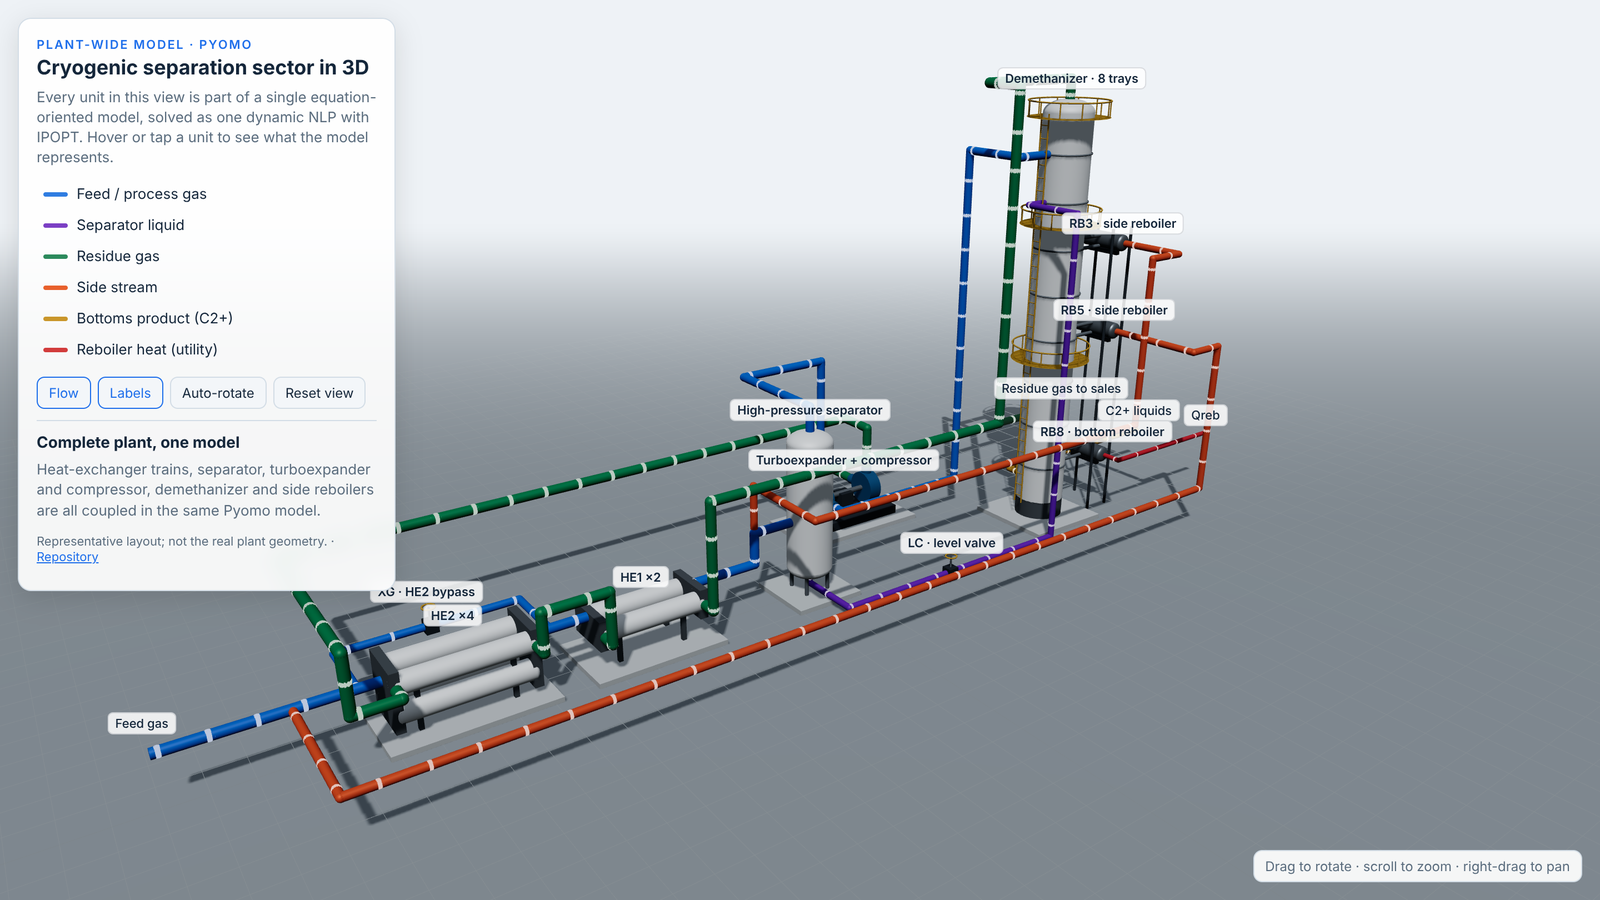
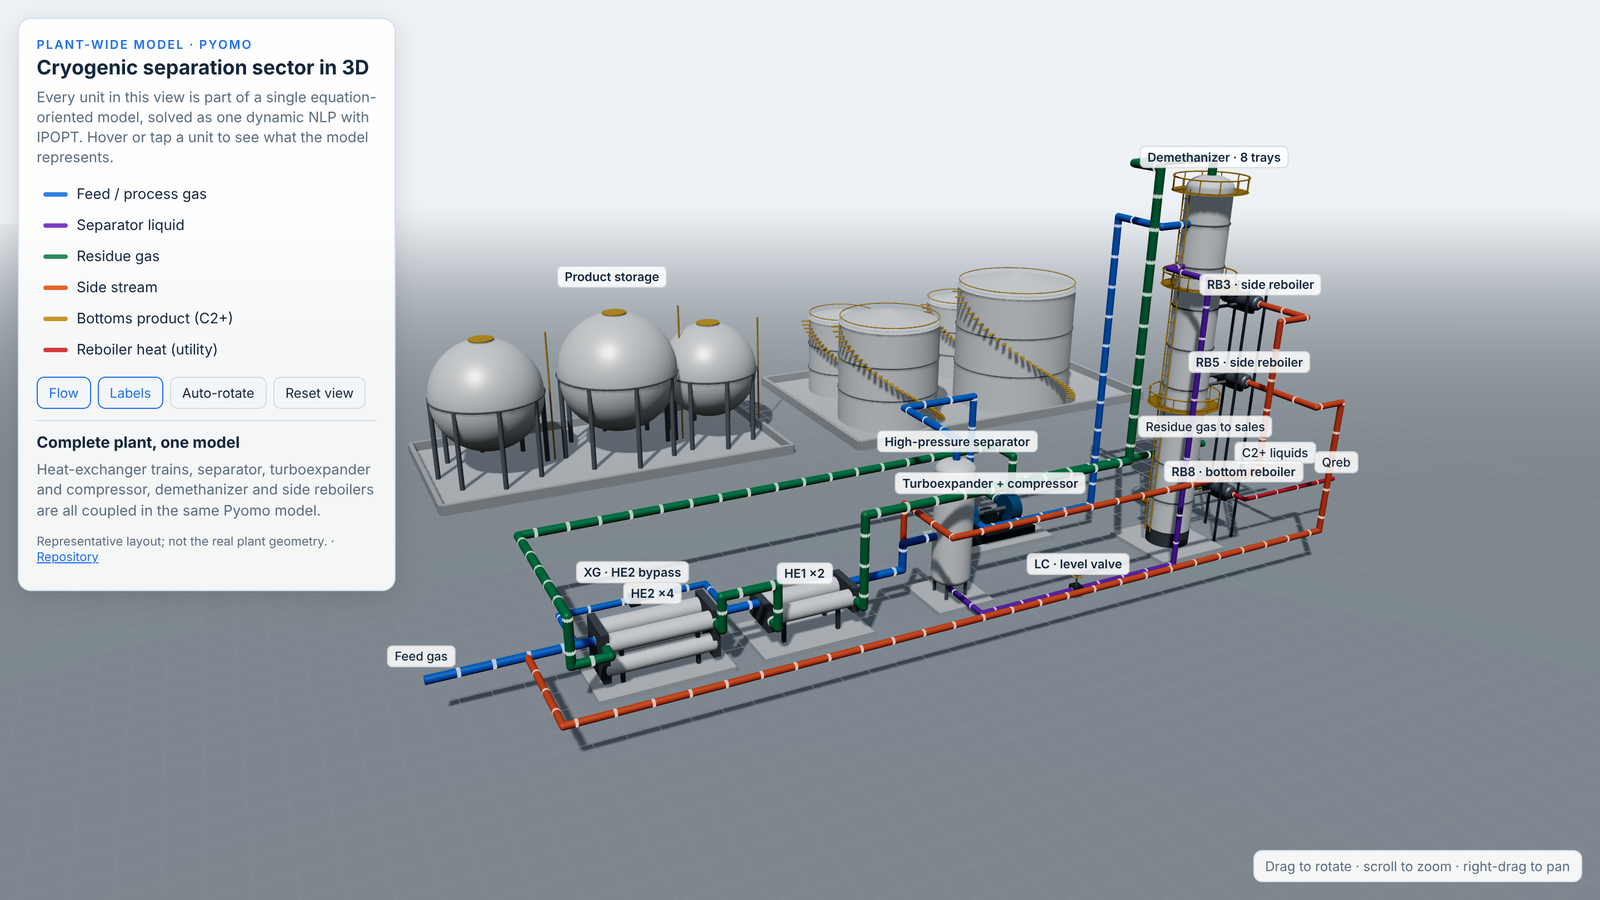
3D view: add product storage spheres and tanks in the background

Changed region(s): [[0.0625, 0.0622, 0.875, 0.9333]]

diff --git a/docs/index.html b/docs/index.html
@@ -104,7 +104,7 @@ applyBg();
 matchMedia('(prefers-color-scheme: dark)').addEventListener('change', applyBg);
 
 const camera = new THREE.PerspectiveCamera(42, innerWidth / innerHeight, 0.1, 500);
-const HOME = { pos: new THREE.Vector3(-38, 34, 52), target: new THREE.Vector3(0, 9, -1) };
+const HOME = { pos: new THREE.Vector3(-42, 40, 62), target: new THREE.Vector3(-6, 8, -12) };
 const homePos = () => { const a = innerWidth / innerHeight, k = a < 1 ? 0.95 / a : a < 1.4 ? 1.25 : 1; return HOME.target.clone().add(HOME.pos.clone().sub(HOME.target).multiplyScalar(k)); };
 camera.position.copy(homePos());
 const controls = new OrbitControls(camera, renderer.domElement);
@@ -119,7 +119,7 @@ const sun = new THREE.DirectionalLight(0xffffff, 1.6);
 sun.position.set(-30, 60, 35);
 sun.castShadow = true;
 sun.shadow.mapSize.set(2048, 2048);
-Object.assign(sun.shadow.camera, { left: -60, right: 60, top: 60, bottom: -60, near: 1, far: 160 });
+Object.assign(sun.shadow.camera, { left: -75, right: 75, top: 75, bottom: -75, near: 1, far: 200 });
 scene.add(sun);
 
 // ---------- materials ----------
@@ -256,6 +256,51 @@ reboiler('RB8', trayY(8), 'RB8 · bottom reboiler', 'External heat duty Qreb, a 
   const g = new THREE.Group();
   for (const dz of [-1.4, 1.4]) for (const dx of [-.9, .9]) { const c = cyl(.1, 20, M.dark, 8); c.position.set(24.5 + dx, 10, dz); g.add(c); }
   scene.add(g); g.traverse(o => o.isMesh && shade(o));
+}
+
+// ---------- product storage (background, not part of the model) ----------
+{
+  const white = new THREE.MeshStandardMaterial({ color: 0xf2f4f5, roughness: .4, metalness: .25 });
+  const leg = new THREE.MeshStandardMaterial({ color: 0x8a949c, roughness: .5, metalness: .6 });
+  const dike = new THREE.MeshStandardMaterial({ color: 0xa7abad, roughness: 1 });
+  const g = new THREE.Group();
+  function bund(x0, x1, z0, z1) {           // containment wall around a tank area
+    const h = .9, t = .4, w = x1 - x0, d = z1 - z0;
+    const floor = box(w, .08, d, M.pad); floor.position.set((x0 + x1) / 2, .04, (z0 + z1) / 2); g.add(floor);
+    for (const [bx, bz, bw, bd] of [[(x0 + x1) / 2, z0, w, t], [(x0 + x1) / 2, z1, w, t], [x0, (z0 + z1) / 2, t, d], [x1, (z0 + z1) / 2, t, d]]) {
+      const b = box(bw, h, bd, dike); b.position.set(bx, h / 2, bz); g.add(b);
+    }
+  }
+  function sphere(x, z, r) {                // pressurized sphere on legs (light products)
+    const y = r + 2.2;
+    const s = shade(new THREE.Mesh(new THREE.SphereGeometry(r, 40, 24), white)); s.position.set(x, y, z); g.add(s);
+    const belt = shade(new THREE.Mesh(new THREE.TorusGeometry(r * 1.005, .08, 6, 48), leg)); belt.rotation.x = Math.PI / 2; belt.position.set(x, y, z); g.add(belt);
+    const n = 8;
+    for (let i = 0; i < n; i++) {
+      const a = i * Math.PI * 2 / n, c = cyl(.22, y, leg, 10);
+      c.position.set(x + Math.cos(a) * r * .98, y / 2, z + Math.sin(a) * r * .98); g.add(c);
+    }
+    const stair = cyl(.08, y + r, M.rail, 6); stair.position.set(x + r + .6, (y + r) / 2, z); g.add(stair);
+    const top = shade(new THREE.Mesh(new THREE.CylinderGeometry(1.1, 1.1, .1, 20), M.rail)); top.position.set(x, y + r + .05, z); g.add(top);
+  }
+  function tank(x, z, r, h) {               // atmospheric cylindrical tank with cone roof and spiral stair
+    const c = cyl(r, h, white, 48); c.position.set(x, h / 2, z); g.add(c);
+    const roof = shade(new THREE.Mesh(new THREE.ConeGeometry(r * 1.02, r * .25, 48), white)); roof.position.set(x, h + r * .125, z); g.add(roof);
+    for (const y of [h * .33, h * .66]) { const band = shade(new THREE.Mesh(new THREE.TorusGeometry(r + .02, .06, 6, 48), leg)); band.rotation.x = Math.PI / 2; band.position.set(x, y, z); g.add(band); }
+    const steps = 28;
+    for (let i = 0; i < steps; i++) {
+      const a = Math.PI * .2 + i * (Math.PI * .9 / steps), y = (i + .5) * h / steps;
+      const st = box(.9, .08, .35, M.rail); st.position.set(x + Math.cos(a) * (r + .45), y, z + Math.sin(a) * (r + .45)); st.rotation.y = -a; g.add(st);
+    }
+    const rail = shade(new THREE.Mesh(new THREE.TorusGeometry(r * .98, .05, 6, 48), M.rail)); rail.rotation.x = Math.PI / 2; rail.position.set(x, h + .6, z); g.add(rail);
+  }
+  // spheres: ethane / propane / butane products
+  bund(-30, 2, -46, -30);
+  for (const [x, z, r] of [[-24, -38, 5], [-12, -38, 5.5], [-3, -38, 4.5]]) sphere(x, z, r);
+  // cylindrical tanks: gasoline / condensate
+  bund(8, 42, -50, -28);
+  for (const [x, z, r, h] of [[15, -35, 5, 10], [30, -35, 6, 12], [15, -45, 3.5, 8], [30, -45.5, 3.5, 8]]) tank(x, z, r, h);
+  addUnit('STO', g, { title: 'Product storage', body: 'Pressurized spheres and atmospheric tanks where the plant products are stored. Shown for context: storage is not part of the optimization model.' }, new THREE.Vector3(-12, 16.5, -38));
 }
 
 // ---------- streams ----------
